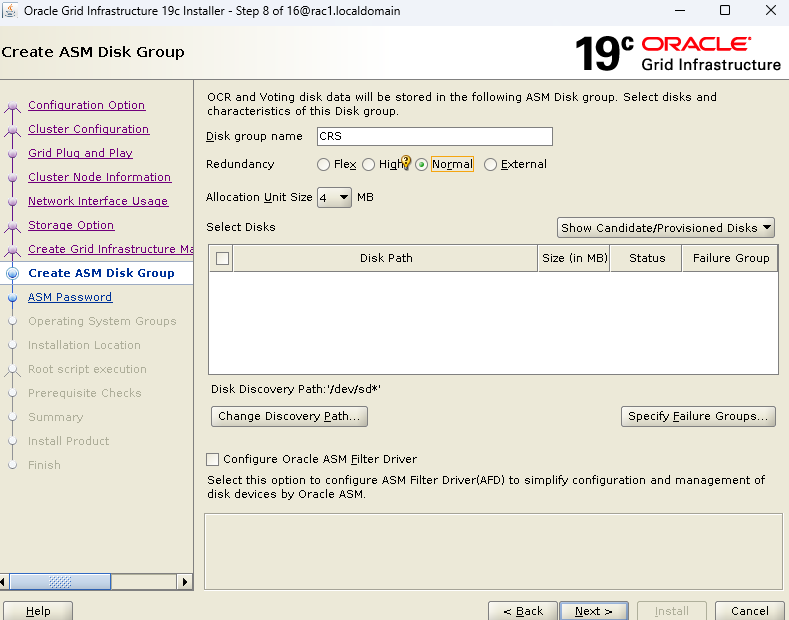
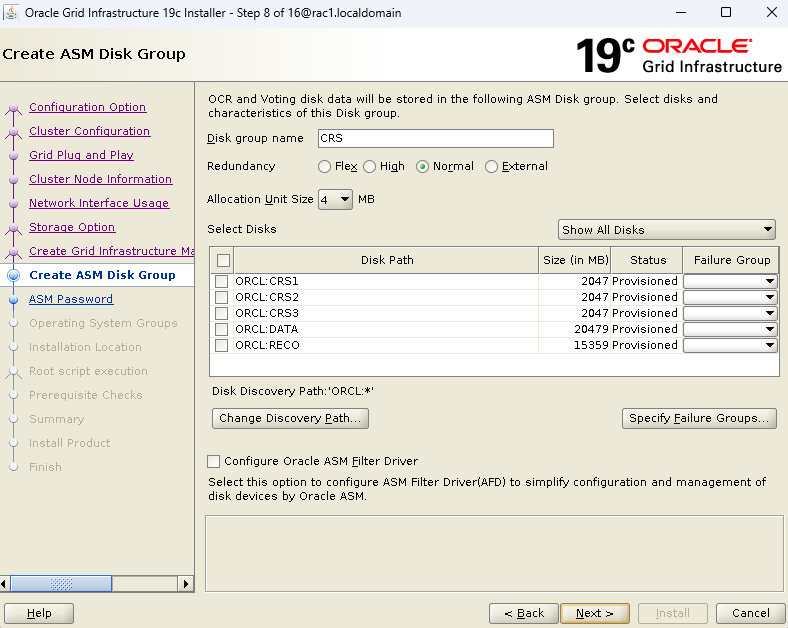
docs: Update ASM screenshot with visible disks + explain CRS-only selection

diff --git a/GUIDA_FASE2_GRID_E_RAC.md b/GUIDA_FASE2_GRID_E_RAC.md
@@ -363,31 +363,40 @@ cd /u01/app/19.0.0/grid
 
 **Step 8 — Create ASM Disk Group** (per OCR e Voting Disk):
 
-![Step 8 - Create ASM Disk Group](./images/grid_asm_disk_group.png)
-
-> 🛑 **Se la lista dei dischi è VUOTA** (come nello screenshot sopra), è perché il Discovery Path punta a `/dev/sd*`. Noi usiamo **ASMLib**, quindi Oracle deve cercare i dischi con il prefisso `ORCL:`.
+![Step 8 - Create ASM Disk Group — Tutti i 5 dischi ASMLib visibili](./images/grid_asm_disk_group.png)
 
 **Procedura passo-passo:**
 
 1. **Disk Group Name**: `CRS`
 2. **Redundancy**: seleziona **Normal**
 3. **Allocation Unit Size**: lascia `4 MB` (default)
-4. **Clicca "Change Discovery Path..."** e cambia da `/dev/sd*` a:
-   ```
-   ORCL:*
-   ```
-5. Ora i dischi appariranno! Seleziona **tutti e 3**: `ORCL:CRS1`, `ORCL:CRS2`, `ORCL:CRS3`
-6. **NON selezionare** "Configure Oracle ASM Filter Driver" (usiamo ASMLib, non AFD)
-7. Clicca **Next**
+4. **Discovery Path**: deve mostrare `ORCL:*`. Se non lo è, clicca **"Change Discovery Path..."** e scrivi `ORCL:*`
+5. **Seleziona SOLO questi 3 dischi** (metti la spunta ☑):
+   - ☑ `ORCL:CRS1` (2047 MB)
+   - ☑ `ORCL:CRS2` (2047 MB)
+   - ☑ `ORCL:CRS3` (2047 MB)
+6. **NON selezionare** `ORCL:DATA` e `ORCL:RECO`! Li userai dopo per creare disk group separati
+7. **NON selezionare** "Configure Oracle ASM Filter Driver" (usiamo ASMLib, non AFD)
+8. Clicca **Next**
+
+> ⚠ **Perché NON selezionare DATA e RECO qui?**
+> Questo step crea il disk group `CRS` che conterrà **solo** i metadati del cluster (OCR e Voting Disk). I disk group `DATA` (per i datafile del database) e `RECO` (per i backup RMAN e gli archived log) verranno creati separatamente dopo l'installazione Grid, con il tool `asmca` o tramite SQL. Mescolare tutto in un unico disk group è una violazione delle best practice Oracle!
 
 ### Perché queste scelte? (Best Practice Oracle)
 
-| Parametro | Scelta | Perché (Best Practice Oracle) |
+| Parametro | Scelta | Perché |
 |---|---|---|
-| **Disk Group Name** | `CRS` | Contiene OCR (Oracle Cluster Registry) e Voting Disk. Oracle raccomanda di separarli dai dati (MOS Doc 1373437.1) |
-| **Redundancy** | Normal | Oracle richiede **almeno 3 Voting Disk** per il quorum. Normal Redundancy su 3 dischi = se ne perdi 1, il cluster resta su (2 su 3 votano). High Redundancy vorrebbe 5 dischi. |
-| **Allocation Unit** | 4 MB | Default Oracle. Per i disk group piccoli come CRS (solo metadati), 4 MB è ottimale. Per DATA/RECO si può usare 4 MB (default e raccomandato per la maggior parte dei casi). |
-| **Discovery Path** | `ORCL:*` | Perché usiamo **ASMLib** come driver disco. Se usassimo `udev` rules, il path sarebbe `/dev/oracleasm/disks/*`. Se usassimo AFD, sarebbe `AFD:*`. |
+| **Disk Group** | `CRS` separato da `DATA` e `RECO` | Oracle raccomanda di separare i metadati del cluster dai dati del database (MOS Doc 1373437.1). Se il disk group DATA si corrompe, il cluster resta su. |
+| **Redundancy** | Normal | Oracle richiede **almeno 3 Voting Disk** per il quorum (votazione a maggioranza). Normal = 3 dischi, se ne perdi 1 il cluster resta su (2 su 3). High = 5 dischi. |
+| **Allocation Unit** | 4 MB | Default Oracle e raccomandato per disk group piccoli come CRS (contiene solo pochi MB di metadati). |
+| **Discovery Path** | `ORCL:*` | Perché usiamo **ASMLib**. Con `udev` sarebbe `/dev/oracleasm/disks/*`. Con AFD sarebbe `AFD:*`. |
+
+> 🛠 **Troubleshooting: Lista dischi VUOTA nonostante `ORCL:*`?**
+> Se `oracleasm listdisks` mostra i dischi dalla riga di comando ma l'installer li ignora, controlla che il pacchetto **`oracleasmlib`** sia installato:
+> ```bash
+> rpm -qa | grep oracleasmlib
+> ```
+> Se non esce nulla, installalo (vedi Sezione 0.8). ASMLib ha bisogno di **3 pacchetti**: `kmod-oracleasm` (kernel), `oracleasm-support` (CLI), e `oracleasmlib` (libreria per l'installer).
 
 **Step 9 — ASM Password**:
 - Imposta la password per `SYS` e `ASMSNMP`
